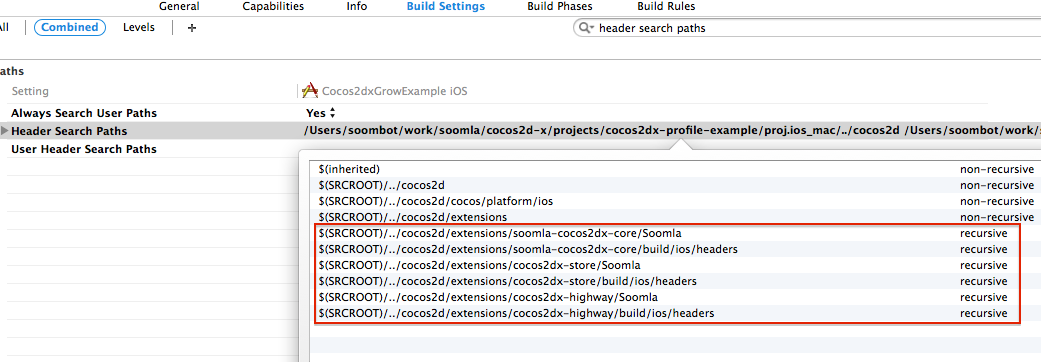
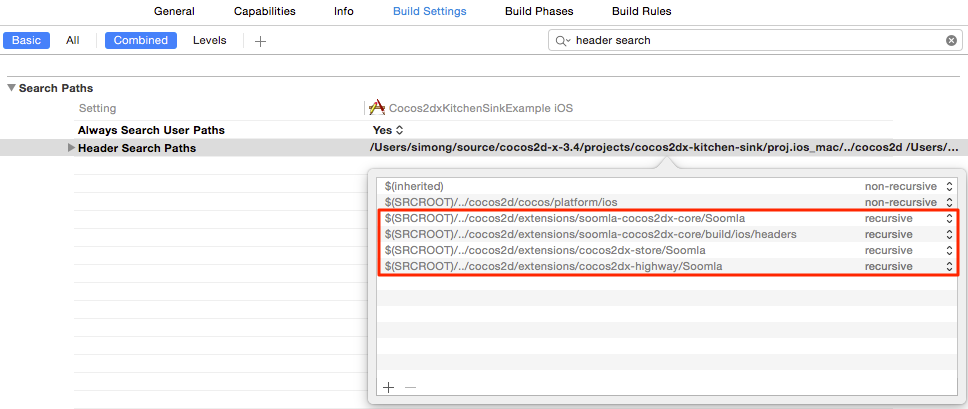
updating getting started with store

diff --git a/src/documents/cocos2dx/grow/Grow_GettingStartedStoreOnly.html.md b/src/documents/cocos2dx/grow/Grow_GettingStartedStoreOnly.html.md
@@ -28,29 +28,47 @@ Get started with SOOMLA's Grow. Go to the [GROW dashboard](http://dashboard.soom
 
   ![](/img/tutorial_img/cocos_grow/folder_structure.png "Folder Structure")
 
-4. Create your own implementation of `CCStoreAssets` that will represent the assets in your specific game. For a brief example, refer to the example below. For more details refer to the cocos2dx-store [Getting Started](/cocos2dx/store/Store_GettingStarted).
+3. Create your own implementation of `CCStoreAssets` that will represent the assets in your specific game. For a brief example, refer to the example below. For more details refer to the cocos2dx-store [Getting Started](/cocos2dx/store/Store_GettingStarted).
 
-5. Implement your `CCStoreEventHandler` in order to be notified about in-app purchase related events. Refer to the [Event Handling](/cocos2dx/store/Store_Events) section for more information.
-
-6. Make sure to include the `Cocos2dxStore.h` header whenever you use any of the *cocos2dx-store* functions:
+4. Make sure to include the `Cocos2dxStore.h` header whenever you use any of the *cocos2dx-store* functions:
 
     ```cpp
     #include "Cocos2dxStore.h"
     ```
 
-7. Add an instance of your event handler to `CCStoreEventDispatcher` after `CCStoreService` initialization:
+5. Initialize `CCSoomla` and `CCSoomlaStore`. Subscribe to any store events, refer to the [Event Handling](/cocos2dx/store/Store_Events) section for more information:
 
-    ```cpp
-    soomla::CCStoreEventDispatcher::getInstance()->addEventHandler(handler);
+    ``` cpp
+    soomla::CCSoomla::initialize("ExampleCustomSecret");
+
+    YourImplementationAssets *assets = YourImplementationAssets::create();
+
+    __Dictionary *storeParams = __Dictionary::create();
+     storeParams->setObject(__String::create("ExamplePublicKey"), "androidPublicKey");
+     storeParams->setObject(__Bool::create(true), "testPurchases");
+     storeParams->setObject(__Bool::create(true), "SSV");
+
+    soomla::CCSoomlaStore::initialize(assets, storeParams);
     ```
 
-8. In your `AppDelegate.cpp` include `Cocos2dxHighway.h`:
+    - *Custom Secret* - is an encryption secret you provide that will be used to secure your data.
+
+    - *Android Public Key* - is the public key given to you from Google. (iOS doesn't have a public key).
+
+    - *Test Purchases* - allows testing IAP on Google Play. (iOS doesn't have this functionality).
+
+    - *SSV* - enables server-side receipt verification. (Android doesn't have this functionality).
+
+    <div class="warning-box">Choose the secret wisely. You can't change it after you launch your game!
+  	Initialize `CCSoomlaStore` ONLY ONCE when your application loads.</div>
+
+6. In your `AppDelegate.cpp` include `Cocos2dxHighway.h`:
 
     ```cpp
     #include "Cocos2dxHighway.h"
     ```
 
-9. Initialize `CCHighwayService` with the "Game Key" and "Env Key" given to you in the [dashboard](http://dashboard.soom.la).
+7. Initialize `CCSoomlaHighway` with the "Game Key" and "Env Key" given to you in the [dashboard](http://dashboard.soom.la).
 
   ``` cpp
   soomla::CCSoomlaHighway::initShared(
@@ -61,30 +79,11 @@ Get started with SOOMLA's Grow. Go to the [GROW dashboard](http://dashboard.soom
   ![alt text](/img/tutorial_img/cocos_grow/dashboardKeys.png "Keys")
 
   <div class="info-box">Note: SOOMLA modules should be initialized in this order: core, highway, store
-  <br>Or in other words - `CCServiceManager`, `CCHighwayService` `CCStoreService`</div>
+  <br>Or in other words - `CCSoomla`, `CCSoomlaHighway` `CCSoomlaStore`</div>
 
-10. Initialize `CCServiceManager`, `CCStoreService`, `CCStoreAssets` (the the class you just created), a `customSecret` and other params.
-
-  - **Custom Secret** is an encryption secret you provide that will be used to secure your data. **NOTE:** Choose this secret wisely, you can't change it after you launch your game!
-
-  - **Android Public Key** - is the public key given to you from Google. (iOS doesn't have a public key).
-
-  ``` cpp
-  __Dictionary *commonParams = __Dictionary::create();
-  commonParams->setObject(__String::create("ExampleCustomSecret"), "customSecret");
-  soomla::CCServiceManager::getInstance()->setCommonParams(commonParams);
-
-  // `assets` should implement the `IStoreAssets` interface
-  // and should include your entire virtual economy
-  __Dictionary *storeParams = __Dictionary::create();
-  storeParams->setObject(__String::create("ExamplePublicKey"), "androidPublicKey");
-  soomla::CCStoreService::initShared(assets, storeParams);
-  ```
-
-11. According to your target platform (iOS or Android) go over the platform specific instructions below.  Once your app is running, you can go back to the [GROW dashboard](http://dashboard.soom.la) to verify the integration. Just refresh the page, and the environments tab should appear (be patient, this step can take a few minutes).
+8. According to your target platform (iOS or Android) go over the platform specific instructions below.  Once your app is running, you can go back to the [GROW dashboard](http://dashboard.soom.la) to verify the integration. Just refresh the page, and the environments tab should appear (be patient, this step can take a few minutes).
 
   ![alt text](/img/tutorial_img/unity_grow/verifyIntegration.png "Verify Integration")
-
 
 <br>
 <div class="info-box">The next steps are different according to which native platform you are building for.</div>
@@ -93,7 +92,7 @@ Get started with SOOMLA's Grow. Go to the [GROW dashboard](http://dashboard.soom
 
 In your XCode project, perform the following steps:
 
-1. Add `jansson` (**external/jansson/**) to your project (just add it as a source folder).
+1. Add `jansson` (**external/jansson/**) to your project (just add it as a source folder, make sure to check "create group").
 
 2. For each of the following XCode projects:
 
@@ -113,12 +112,10 @@ In your XCode project, perform the following steps:
 
   NOTE: This article assumes you have a `cocos2d` folder under your project folder which either contains the Cocos2d-x framework, or links to to its root folder.
 
-  - `$(SRCROOT)/../cocos2d/extensions/cocos2dx-highway/Soomla`
-  - `$(SRCROOT)/../cocos2d/extensions/cocos2dx-highway/build/ios/headers`
   - `$(SRCROOT)/../cocos2d/extensions/soomla-cocos2dx-core/Soomla`
   - `$(SRCROOT)/../cocos2d/extensions/soomla-cocos2dx-core/build/ios/headers`
   - `$(SRCROOT)/../cocos2d/extensions/cocos2dx-store/Soomla`
-  - `$(SRCROOT)/../cocos2d/extensions/cocos2dx-store/build/ios/headers`
+  - `$(SRCROOT)/../cocos2d/extensions/cocos2dx-highway/Soomla`
 
   ![alt text](/img/tutorial_img/cocos_grow/headersSO.png "Header search paths")
 
@@ -131,28 +128,7 @@ In your XCode project, perform the following steps:
 
   ![alt text](/img/tutorial_img/ios_getting_started/linkerFlags.png "Linker Flags")
 
-6. To register services on the native application (`AppController`):
-
-  a. Import the following headers:
-    ```cpp
-    #import "ServiceManager.h"
-    #import "Cocos2dXSoomlaHighway.h"
-    #import "StoreService.h"
-    ```
-
-  b. Register the native `Cocos2dXSoomlaHighway` and `StoreService`` by adding:
-
-    ```cpp
-    [[ServiceManager sharedServiceManager]
-      registerService:[Cocos2dXSoomlaHighway sharedCocos2dXSoomlaHighway]];
-
-    [[ServiceManager sharedServiceManager]
-      registerService:[StoreService sharedStoreService]];
-    ```
-
-    at the beginning of the method `application: didFinishLaunchingWithOptions:` of `AppController`.
-
-7. Make sure you have these 7 Frameworks linked to your XCode project:
+6. Make sure you have these 7 Frameworks linked to your XCode project:
 
   - Security
   - libsqlite3.0.dylib
@@ -208,63 +184,20 @@ That's it! Now all you have to do is build your XCode project and run your game.
 
     - Cocos2dxAndroidStore.jar
 
-3. In your game's main `Cocos2dxActivity`, call the following in the `onCreateView` method:
-
-  ``` java
-  public Cocos2dxGLSurfaceView onCreateView() {
-    ...
-
-    // initialize services
-    final ServiceManager serviceManager = ServiceManager.getInstance();
-    serviceManager.setActivity(this);
-    serviceManager.setGlSurfaceView(glSurfaceView);
-
-    serviceManager.registerService(Cocos2dXHighwayService.getInstance());
-    serviceManager.registerService(StoreService.getInstance());
-    ...
-  }
-  ```
-
-4. Override `onPause`, `onResume`:
-
-  ``` java
-  @Override
-  protected void onPause() {
-      super.onPause();
-      ServiceManager.getInstance().onPause();
-  }
-
-  @Override
-  protected void onResume() {
-      ServiceManager.getInstance().onResume();
-      super.onResume();
-  }
-  ```
-
-5. Update your `AndroidManifest.xml`:
+3. Update your `AndroidManifest.xml`:
 
   ``` xml
   <uses-permission android:name="android.permission.INTERNET"/>
   <uses-permission android:name="android.permission.ACCESS_NETWORK_STATE" />
   <uses-permission android:name="com.android.vending.BILLING"/>
 
-  <!-- optional: required for uploadImage from SD card -->
-  <uses-permission android:name="android.permission.READ_EXTERNAL_STORAGE" />
-
   <application
             ...
             android:name="com.soomla.SoomlaApp">
-
-    <receiver android:name="com.soomla.highway.net.NetworkStateReceiver">
-      <intent-filter>
-        <action android:name="android.net.conn.CONNECTIVITY_CHANGE"/>
-      </intent-filter>
-    </receiver>
-
   </application>
   ```
 
-6. Connect the Store module to your desired billing service:
+4. Connect the Store module to your desired billing service:
 
   - [Google Play](/cocos2dx/store/Store_GettingStarted#google-play)
 
@@ -277,7 +210,7 @@ That's it! Don't forget to run the **build_native.py** script so that SOOMLA sou
 Below is a short example of how to initialize SOOMLA's modules. We suggest you read about the different modules and their entities in SOOMLA's [Knowledge Base](/cocos2dx).
 
 ``` cpp
-/** ExampleAssets (your implementation of IStoreAssets) **/
+/** ExampleAssets (your implementation of CCStoreAssets) **/
 CCVirtualCurrency *coinCurrency = CCVirtualCurrency::create(
   CCString::create("Coins"),
   CCString::create(""),
@@ -309,18 +242,17 @@ CCVirtualGood *shieldGood = CCSingleUseVG::create(
 <br>
 
 ``` cpp
-soomla::CCHighwayService::initShared(__String::create("YOUR MASTER KEY"));
+/** Set the custom secret **/
+soomla::CCSoomla::initialize("ExampleCustomSecret");
 
+/** Initialize Highway **/
+soomla::CCSoomlaHighway::initShared(__String::create("yourGameKey"),
+                                    __String::create("yourEnvKey"));
 
-ExampleAssets *assets = MuffinRushAssets::create();
-
-__Dictionary *commonParams = __Dictionary::create();
-commonParams->setObject(__String::create("ExampleCustomSecret"), "customSecret");
+ExampleAssets *assets = ExampleAssets::create();
 
 __Dictionary *storeParams = __Dictionary::create();
 storeParams->setObject(__String::create("ExamplePublicKey"), "androidPublicKey");
 
-soomla::CCServiceManager::getInstance()->setCommonParams(commonParams);
-
-soomla::CCStoreService::initShared(assets, storeParams);
+soomla::CCSoomlaStore::initialize(assets, storeParams);
 ```

diff --git a/src/documents/cocos2dx/grow/Grow_GettingStarted.html.md b/src/documents/cocos2dx/grow/Grow_GettingStarted.html.md
@@ -237,13 +237,6 @@ That's it! Now all you have to do is build your XCode project and run your game.
   <application
             ...
             android:name="com.soomla.SoomlaApp">
-
-    <receiver android:name="com.soomla.highway.net.NetworkStateReceiver">
-      <intent-filter>
-        <action android:name="android.net.conn.CONNECTIVITY_CHANGE"/>
-      </intent-filter>
-    </receiver>
-
   </application>
   ```
 
@@ -348,7 +341,8 @@ mainWorld->batchAddLevelsWithTemplates(5, gate, score, mission);
 soomla::CCSoomla::initialize("ExampleCustomSecret");
 
 /** Initialize Highway **/
-soomla::CCSoomlaHighway::initShared(__String::create("yourGameKey"), __String::create("yourEnvKey"));
+soomla::CCSoomlaHighway::initShared(__String::create("yourGameKey"),
+                                    __String::create("yourEnvKey"));
 
 /** Set up and initialize Core, Store, Profile, and LevelUp **/
 ExampleAssets *assets = ExampleAssets::create();
